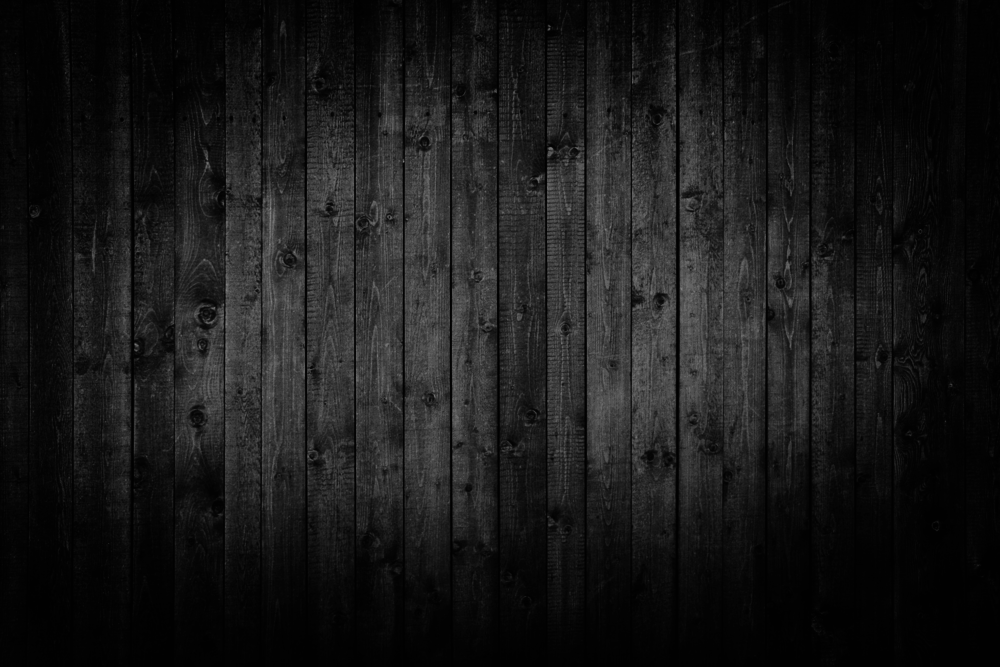
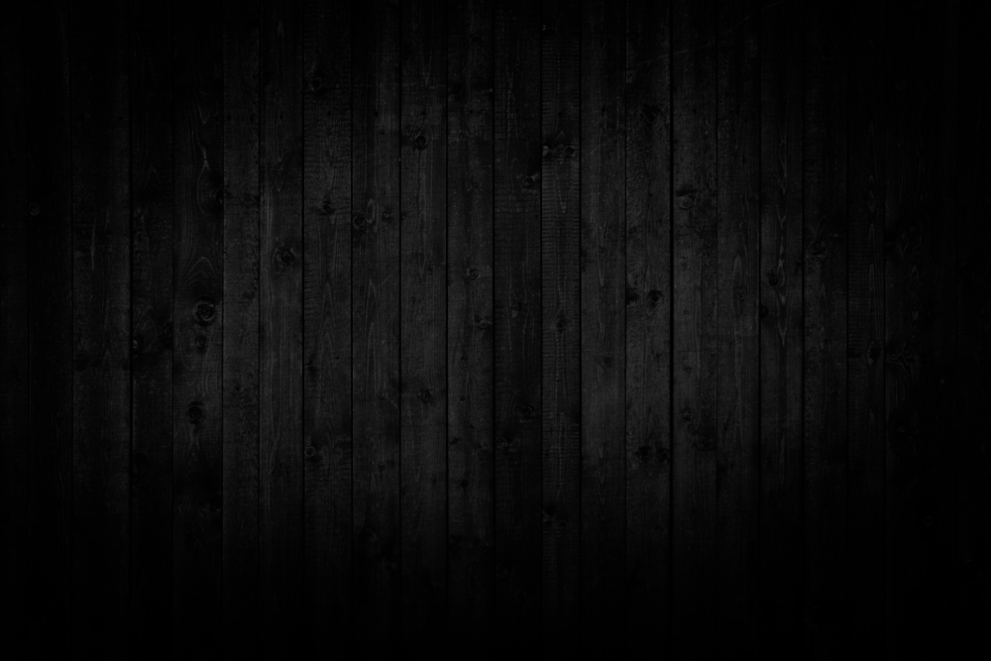
Updated code for backgrounds

Changed region(s): [[0.0605, 0.0908, 0.8779, 0.7867]]

diff --git a/index.html b/index.html
@@ -95,14 +95,14 @@
 
 
     <!-- About -->
-    <div id="about" class="intro bg-bind-light">
+    <div id="about" class="intro bg-bind-mumbai">
       <div class="container vert-text">
         <div class="container-center">
           <h2 class="text-center space-bottom text-white">
             <i class="fa fa-user"></i><font size="8" color="white"> A little about me</font>
           </h2>
           <div class="text-left text-white bottom-60">
-          <blockquote class="lead">
+          <blockquote class="lead"><font size="3" color="white">
             <p>
               Hi, I'm Rohit! I'm a <strong>Developer</strong> + <strong>Writer</strong> + <strong>Traveler</strong>. 
               </p>
@@ -114,6 +114,7 @@
               I am currently pursuing a MS in Computer Science from the North Carolina State University, Raleigh and have been programming
               for over 6 years.
             </p>
+            </font>
           </blockquote>
           </div>
         </div>
@@ -219,7 +220,7 @@
     <!--/Education-->
 
     <!-- Portfolio -->
-    <div id="portfolio" class="intro header-fill bg-bind-light">
+    <div id="portfolio" class="intro header-fill bg-bind-work">
       <div class="container vert-text">
         <div class="container-center">
           <h2 class="text-center space-bottom text-white">
@@ -301,7 +302,7 @@
 
 
     <!-- Projects -->
-    <div id="projects" class="intro bg-bind-dark">
+    <div id="projects" class="intro bg-bind-wood">
       <div class="container vert-text">
         <div class="container-mid">
           <br>
@@ -527,7 +528,7 @@
     <!-- /Projects -->
 
 <!--Certifications-->
-<div id="certifications" class="intro header-fill bg-bind-light">
+<div id="certifications" class="intro header-fill bg-bind-bulb">
       <div class="container vert-text">
         <div class="container-mid">
           <br>
@@ -569,8 +570,8 @@
 <!--/Certifications-->
 
  <!--Recognitions & Volunteering-->
-    <!-- Education -->
-    <div id="recognition" class="intro header-fill bg-bind-dark">
+  
+    <div id="recognition" class="intro header-fill bg-bind-award">
       <div class="container vert-text">
         <div class="container-center">
           <br>
@@ -641,8 +642,9 @@
     </div>
  
  <!--/Recognitions & Volunteering-->
+
     <!-- Contact -->
-    <div id="contact" class="intro bg-bind-light">
+    <div id="contact" class="intro bg-bind-world">
       <div class="container vert-text">
         <div class="row">
           <div class="col-md-6 col-md-offset-3">
@@ -661,21 +663,36 @@
               <!-- Facebook -->
               <li class="lg-icon">
                 <a id="facebook-link" href="https://www.facebook.com/rohit.mandge" target="_blank">
-                  <i class="fa fa-facebook fa-5x"></i></a>
+                  <i class="fa fa-facebook fa-4x"></i></a>
               </li>
               <!-- Twitter -->
               <li class="lg-icon">
                 <a id="twitter-link" href="https://twitter.com/superrohit2010" target="_blank">
-                  <i class="fa fa-twitter-square fa-5x"></i></a>
+                  <i class="fa fa-twitter-square fa-4x"></i></a>
               </li>
               <!-- Google-plus-->
               <li class="lg-icon">
                 <a id="Google-plus-link" href="https://plus.google.com/u/0/100508070745874288792" target="_blank">
-                  <i class="fa fa-google-plus-square fa-5x"></i></a>
+                  <i class="fa fa-google-plus-square fa-4x"></i></a>
               </li>
               <li class="lg-icon">
                 <a id="instagram-link" href="https://www.instagram.com/iamrohitmandge/?hl=en" target="_blank">
-                  <i class="fa fa-instagram fa-5x"></i></a>
+                  <i class="fa fa-instagram fa-4x"></i></a>
+              </li>
+              <!-- Github -->
+              <li class="lg-icon">
+                <a id="github-link" href="https://github.com/mandgerohit" target="_blank">
+                  <i class="fa fa-github fa-4x"></i></a>
+              </li>
+              <!-- Linkedin -->
+              <li class="lg-icon">
+                <a id="linkedin-link" href="http://www.linkedin.com/in/rohitmandge" target="_blank">
+                  <i class="fa fa-linkedin-square fa-4x"></i></a>
+              </li>
+              <!-- Resume -->
+              <li class="lg-icon">
+                <a id="resume-link" href="Rohit_Mandge_Resume.pdf" target="_blank">
+                  <i class="fa fa-file-pdf-o fa-4x"></i></a>
               </li>
             </ul>
             </div>
@@ -684,40 +701,6 @@
       </div>
     </div>
     <!-- End Contacts -->
-
-
-    <!-- Footer -->
-    <footer id="footer" class="intro bg-bind-dark text-white">
-      <div class="container-fluid vert-text">
-        <div class="row text-center">
-          <div class="col-md-6 col-md-offset-3 social-links">
-            <h2><font size="8">My projects and profile</font></h2>
-            <br>
-            <br>
-            <ul class="list-inline">
-              <!-- Github -->
-              <li class="lg-icon">
-                <a id="github-link" href="https://github.com/mandgerohit" target="_blank">
-                  <i class="fa fa-github fa-5x"></i></a>
-              </li>
-              <!-- Linkedin -->
-              <li class="lg-icon">
-                <a id="linkedin-link" href="http://www.linkedin.com/in/rohitmandge" target="_blank">
-                  <i class="fa fa-linkedin-square fa-5x"></i></a>
-              </li>
-
-              <li class="lg-icon">
-                <a id="resume-link" href="Rohit_Mandge_Resume.pdf" target="_blank">
-                  <i class="fa fa-file-pdf-o fa-5x"></i></a>
-              </li>
-            </ul>
-            <br>
-          </div>
-        </div>
-      </div>
-    </footer>
-    <!-- End Footer -->
-
 
     <!-- JavaScript -->
     <script src="assets/js/vendor.js"></script>

diff --git a/assets/css/portfolio.css b/assets/css/portfolio.css
@@ -315,13 +315,19 @@ i.service-icon:hover {
  * Backgrounds *
  ***************/
 .bg-clear { background: rgba(0,0,0,.85); }
-.bg-welcome { background: url('../img/bg/dark_mosaic.png') repeat; }
+.bg-bind-welcome { background: url('../img/bg/dark_mosaic.png') repeat; }
 .bg-bind-dark { background: url('../img/bg/binding_dark.png') repeat; }
 .bg-bind-light { background: url('../img/bg/classy_fabric.png') repeat; }
 .bg-bind-nyc { background: url('../img/bg/nyc.png') no-repeat; background-size: cover }
 .bg-bind-wood { background: url('../img/bg/wood.png') no-repeat; background-size: cover }
 .bg-bind-work { background: url('../img/bg/work.png') no-repeat; background-size: cover }
 .bg-bind-education { background: url('../img/bg/education.png') no-repeat; background-size: cover }
+.bg-bind-binary { background: url('../img/bg/binary.png') no-repeat; background-size: cover }
+.bg-bind-world { background: url('../img/bg/world.png') no-repeat; background-size: cover }
+.bg-bind-mumbai { background: url('../img/bg/mumbai.png') no-repeat; background-size: cover }
+.bg-bind-grass { background: url('../img/bg/grass.png') no-repeat; background-size: cover }
+.bg-bind-award { background: url('../img/bg/award.png') no-repeat; background-size: cover }
+.bg-bind-bulb { background: url('../img/bg/bulb.png') no-repeat; background-size: cover }
 
 
 /***********
